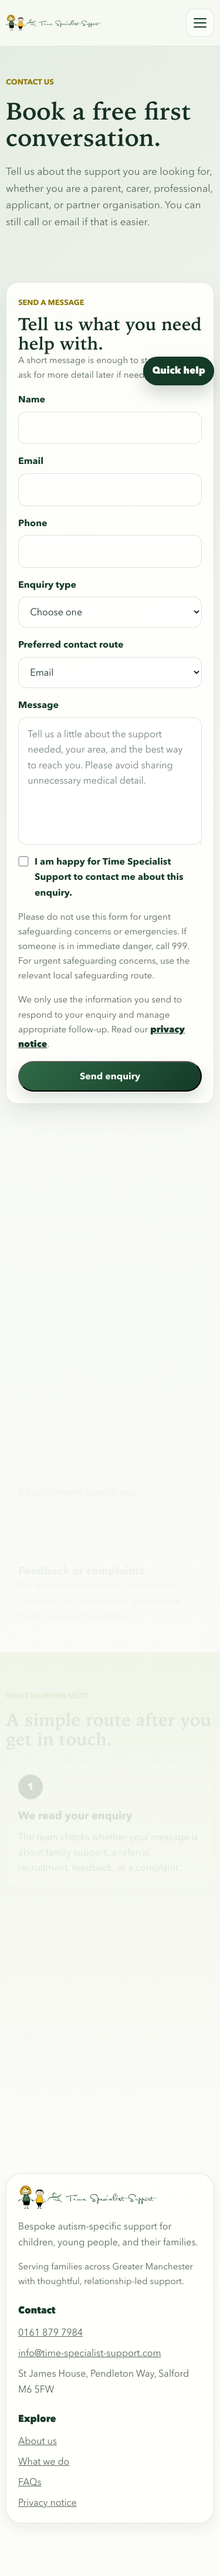
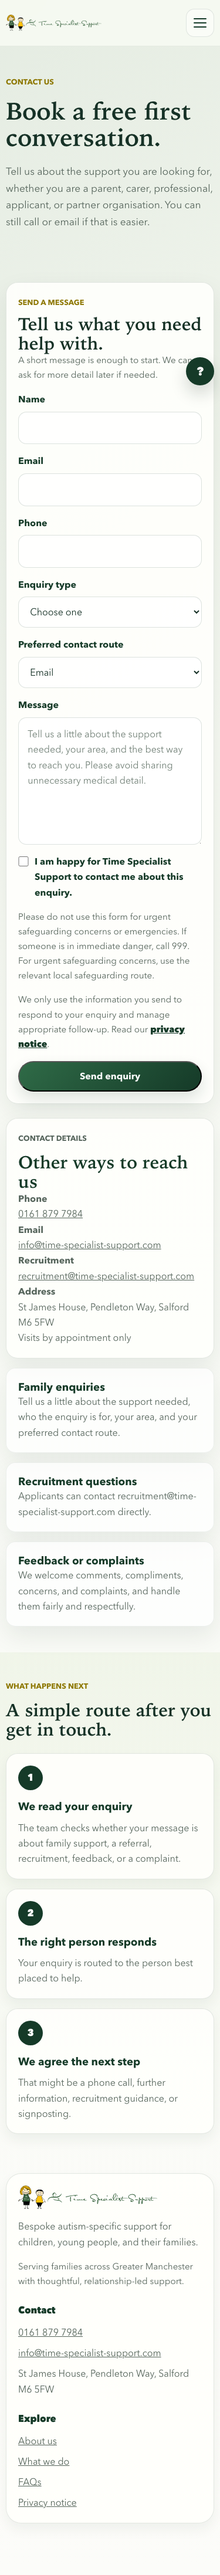
Disabled hiding-style reveal animations on mobile, so full-page captures and mobile scrolling don’t show blank/faded sections. Changed the mobile Quick Help launcher from a large “Quick help” pill to a compact circular ?. Added right-side spacing to mobile hero CTA rows so the fixed helper does not 

diff --git a/style.css b/style.css
@@ -1857,6 +1857,10 @@ h3 {
         flex-direction: column;
     }
 
+    .hero-actions {
+        padding-right: 3.4rem;
+    }
+
     .button {
         width: 100%;
     }
@@ -1905,6 +1909,28 @@ h3 {
     .chat-launcher {
         min-height: 46px;
         padding: 0.7rem 0.95rem;
+    }
+}
+
+@media (max-width: 640px) {
+    .reveal-item {
+        opacity: 1;
+        transform: none;
+    }
+
+    .chat-launcher {
+        font-size: 0;
+        width: 48px;
+        min-width: 48px;
+        height: 48px;
+        min-height: 48px;
+        padding: 0;
+        border-radius: 50%;
+    }
+
+    .chat-launcher::after {
+        content: "?";
+        font-size: 1.25rem;
     }
 }
 
